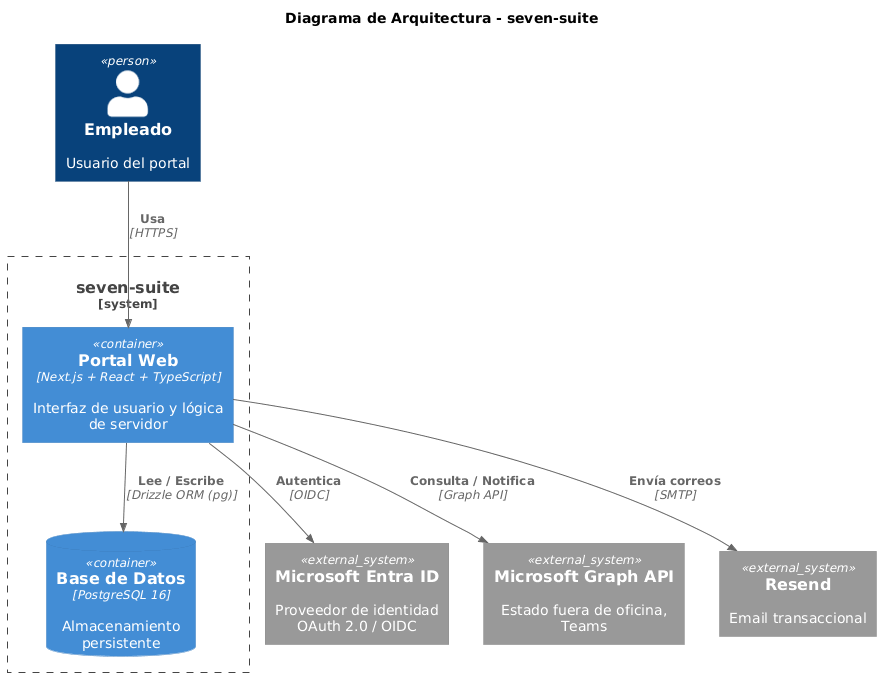
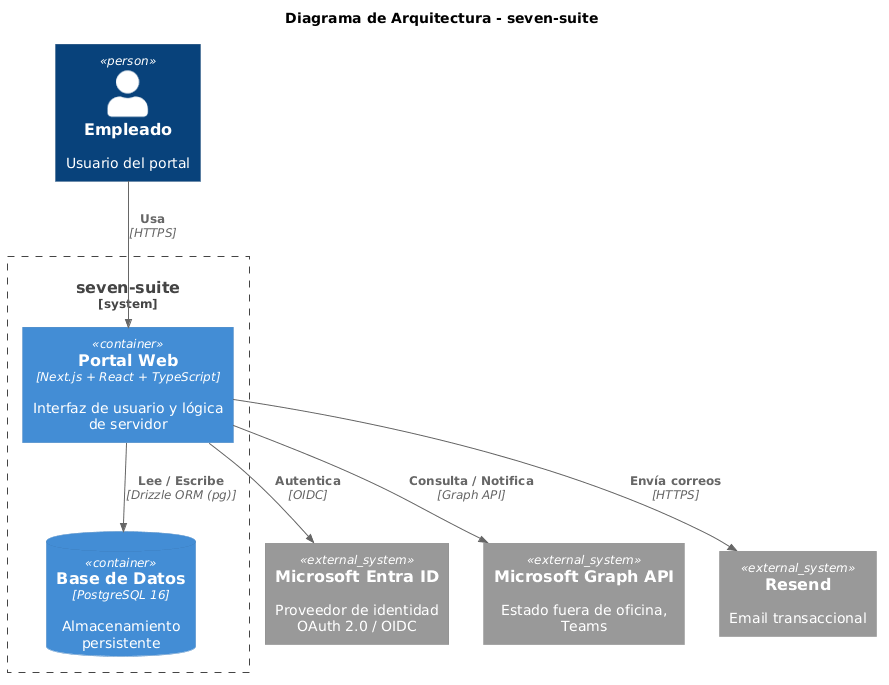
fix: detalles en diagramas

diff --git a/docs/TFG/REQUISITOS.md b/docs/TFG/REQUISITOS.md
@@ -91,12 +91,11 @@ cada entidad para el registro correcto de días laborables.
 
 Se documentan los ciclos de vida de las tres entidades con comportamiento dinámico no trivial.
 
-**Reserva**. El ciclo es muy simple: una reserva se crea siempre en estado confirmada
-y solo puede transitar a cancelada. La restricción de unicidad (una plaza, un día, una reserva
-confirmada) se garantiza a nivel de base de datos mediante índices parciales.
-
-![Estados de Reserva](../../modelosUML/svg/estadosReserva.svg)
-<sub>[Código fuente](../../modelosUML/puml/estadosReserva.puml)</sub>
+**Reserva**. Su ciclo de vida es simple: se crea en estado confirmada y solo puede transitar
+a cancelada. La restricción de unicidad (una plaza, un día, una reserva confirmada) se
+garantiza a nivel de base de datos mediante índices parciales. Al tratarse de una entidad
+con dos estados y una única transición, su comportamiento se describe aquí en el glosario
+en lugar de dedicarle un diagrama de estados.
 
 **Cesión**. Nace en estado disponible cuando el propietario la cede. Transita a reservada en
 cuanto un empleado genera una reserva sobre ella, o a cancelada si el propietario la retira antes
@@ -173,15 +172,15 @@ Los tres diagramas de la sección anterior presentan la totalidad de los casos d
 agrupados por dominio (espacios, personas y administración) y vinculados a los actores que los
 inician mediante la herencia visible en cada vista.
 
-El desarrollo del sistema se organizó en fases sucesivas conforme al modelo en cascada.
-La primera fase abordó la autenticación mediante Entra ID y la estructura base del portal
-(`cerrarSesion()`). La segunda implementó el
-módulo de parking con reservas, cesiones y gestión de visitantes; la tercera añadió el módulo
-de oficinas con reserva de puestos y franjas horarias. La cuarta fase incorporó el módulo
+El desarrollo del MVP se organizó en incrementos sucesivos priorizando los casos de uso
+mediante MoSCoW (Must, Should, Could, Won't). El primer incremento abordó la autenticación
+mediante Entra ID y la estructura base del portal (`cerrarSesion()`). El segundo implementó el
+módulo de parking con reservas, cesiones y gestión de visitantes; el tercero añadió el módulo
+de oficinas con reserva de puestos y franjas horarias. El cuarto incremento incorporó el módulo
 de vacaciones con el flujo completo de aprobación en dos niveles, seguida del tablón de
-anuncios y el directorio de empleados. La quinta fase cubrió el panel de administración
+anuncios y el directorio de empleados. El quinto incremento cubrió el panel de administración
 (gestión de plazas, usuarios, entidades y configuración del sistema) junto con el módulo de
-ajustes. La última fase integró el panel de analíticas para administradores.
+ajustes. El último incremento integró el panel de analíticas para administradores.
 
 ### 3.3.3. Detalle de casos de uso representativos
 